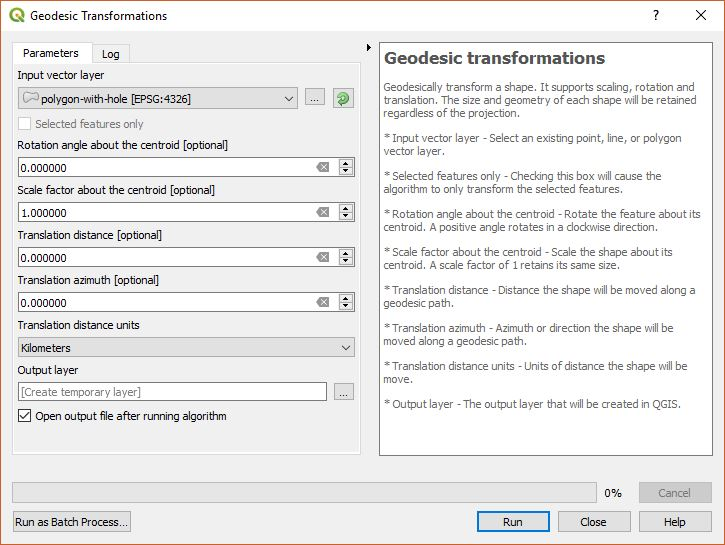
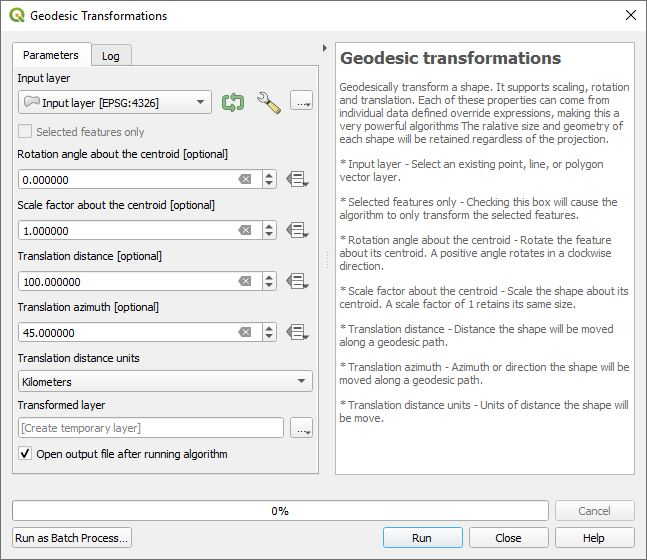
added data defined overrides to geodesic transformation tool.

Changed region(s): [[0.0, 0.0, 1.0, 1.0]]

diff --git a/index.html b/index.html
@@ -223,11 +223,11 @@ code {
 <div style="text-align:center"><img src="doc/measurement-attributes.jpg" alt="Measurement Attributes"></div>
 
 <h2><a name="geodesic-transformations"></a> <img alt="Geodesic Transformations" src="images/transformShape.svg" /> Geodesic Transformations Tool</h2>
-<p>This tool provides the ability to geodesically transform a shape. It supports scaling, rotation and translation. The size and geometry of each shape will be retained regardless of the projection. </p>
+<p>This tool provides the ability to geodesically transform a shape. It supports scaling, rotation and translation. Each of these can use data defined override expressions. The relative size and geometry of each shape will be retained regardless of the projection. </p>
 <div style="text-align:center"><img src="doc/geodesictransform.jpg" alt="Geodesic Transformations"></div>
 
 <ul>
-<li><strong>Input vector layer</strong> - Select an existing point, line, or polygon vector layer.</li>
+<li><strong>Input layer</strong> - Select an existing point, line, or polygon vector layer.</li>
 <li><strong>Selected features only</strong> - Checking this box will cause the algorithm to only transform the selected features.</li>
 <li><strong>Rotation angle about the centroid</strong> - Rotate the feature about its centroid. A positive angle rotates in a clockwise direction.</li>
 <li><strong>Scale factor about the centroid</strong> - Scale the shape about its centroid. A scale factor of 1 retains its same size.</li>
@@ -236,6 +236,10 @@ code {
 <li><strong>Translation distance units</strong> - Units of distance the shape will be move.</li>
 <li><strong>Output layer</strong> - The output layer that will be created in QGIS.</li>
 </ul>
+<p>To the right of each parameter is the data defined override button <img alt="" src="doc/datadefined.jpg" /> where the default value is overridden with a value from one of the attributes or an expression. This leads to some powerful and creative applications.</p>
+<div style="text-align:center"><img src="doc/geodesictransformexample.jpg" alt="Geodesic Transformation Example"></div>
+
+<p>This was created by clicking on the <strong><em>Rotation angle about the centroid</em></strong> data defined override button, clicking on <strong>Edit</strong> and using the expression <code><span style="font-family:'Courier New'"><b>randf( -10, 10)</b></span></code> and for <strong><em>Scale factor about the centroid</em></strong> using the expression <code><span style="font-family:'Courier New'"><b>randf(0.65, 0.85)</b></style></code>. For each polygin in the input layer it rotates them using a random value between -10 and 10 degrees and scales them by a factor betweeen 0.65 and 0.85.</p>
 <h2><a name="geodesic-flip"></a> <img alt="Geodesic Flip and Rotate Tools" src="images/flip.svg" /> Geodesic Flip and Rotate Tools</h2>
 <p>This is a collection of geodesic tools that transform vector features including the ability to flip horizontally, flip vertically, rotate by 180 degrees, rotate clockwise by 90 degrees, and rotate counter clockwise by 90 degrees. The first is a processing toolbox algorithm that allows the selection of one of these five transforms.</p>
 <div style="text-align:center"><img src="doc/fliptool.jpg" alt="Geodesic Flip and Rotate"></div>

diff --git a/geodesicTransformation.py b/geodesicTransformation.py
@@ -1,11 +1,12 @@
 import os
 from geographiclib.geodesic import Geodesic
 
-from qgis.core import (QgsPoint, QgsProject, QgsCoordinateTransform)
+from qgis.core import (QgsPoint, QgsProject, QgsCoordinateTransform, QgsPropertyDefinition)
 
 from qgis.core import (
     QgsProcessing,
-    QgsProcessingAlgorithm,
+    QgsProcessingFeatureBasedAlgorithm,
+    QgsProcessingParameters,
     QgsProcessingParameterNumber,
     QgsProcessingParameterEnum,
     QgsProcessingParameterFeatureSource,
@@ -17,134 +18,19 @@ from qgis.PyQt.QtCore import QUrl
 from .settings import epsg4326, geod
 from .utils import tr, conversionToMeters, DISTANCE_LABELS
 
-class GeodesicTransformationsAlgorithm(QgsProcessingAlgorithm):
+class GeodesicTransformationsAlgorithm(QgsProcessingFeatureBasedAlgorithm):
     """
     Algorithm to transform geometry shapes.
     """
 
-    PrmInputLayer = 'InputLayer'
-    PrmOutputLayer = 'OutputLayer'
     PrmTransformRotation = 'TransformRotation'
     PrmTransformScale = 'TransformScale'
     PrmTransformAzimuth = 'TransformAzimuth'
     PrmTransformDistance = 'TransformDistance'
     PrmTransformUnits = 'TransformUnits'
 
-    def initAlgorithm(self, config):
-        self.addParameter(
-            QgsProcessingParameterFeatureSource(
-                self.PrmInputLayer,
-                tr('Input vector layer'),
-                [QgsProcessing.TypeVectorAnyGeometry])
-        )
-        self.addParameter(
-            QgsProcessingParameterNumber(
-                self.PrmTransformRotation,
-                tr('Rotation angle about the centroid'),
-                QgsProcessingParameterNumber.Double,
-                defaultValue=0,
-                optional=True)
-        )
-        self.addParameter(
-            QgsProcessingParameterNumber(
-                self.PrmTransformScale,
-                tr('Scale factor about the centroid'),
-                QgsProcessingParameterNumber.Double,
-                defaultValue=1,
-                optional=True)
-        )
-        self.addParameter(
-            QgsProcessingParameterNumber(
-                self.PrmTransformDistance,
-                tr('Translation distance'),
-                QgsProcessingParameterNumber.Double,
-                defaultValue=0,
-                optional=True)
-        )
-        self.addParameter(
-            QgsProcessingParameterNumber(
-                self.PrmTransformAzimuth,
-                tr('Translation azimuth'),
-                QgsProcessingParameterNumber.Double,
-                defaultValue=0,
-                optional=True)
-        )
-        self.addParameter(
-            QgsProcessingParameterEnum(
-                self.PrmTransformUnits,
-                tr('Translation distance units'),
-                options=DISTANCE_LABELS,
-                defaultValue=0,
-                optional=False)
-        )
-        self.addParameter(
-            QgsProcessingParameterFeatureSink(
-                self.PrmOutputLayer,
-                tr('Output layer'))
-        )
-
-    def processAlgorithm(self, parameters, context, feedback):
-        source = self.parameterAsSource(parameters, self.PrmInputLayer, context)
-        angle = self.parameterAsDouble(parameters, self.PrmTransformRotation, context)
-        scale = self.parameterAsDouble(parameters, self.PrmTransformScale, context)
-        azimuth = self.parameterAsDouble(parameters, self.PrmTransformAzimuth, context)
-        distance = self.parameterAsDouble(parameters, self.PrmTransformDistance, context)
-        units = self.parameterAsInt(parameters, self.PrmTransformUnits, context)
-
-        to_meters = conversionToMeters(units)
-        distance = distance * to_meters
-        src_crs = source.sourceCrs()
-        wkbtype = source.wkbType()
-
-        (sink, dest_id) = self.parameterAsSink(
-            parameters, self.PrmOutputLayer, context, source.fields(), wkbtype, src_crs)
-
-        geom_to_4326 = QgsCoordinateTransform(src_crs, epsg4326, QgsProject.instance())
-        to_sink_crs = QgsCoordinateTransform(epsg4326, src_crs, QgsProject.instance())
-
-        featureCount = source.featureCount()
-        total = 100.0 / featureCount if featureCount else 0
-
-        iterator = source.getFeatures()
-        for cnt, feature in enumerate(iterator):
-            if feedback.isCanceled():
-                break
-            geom = feature.geometry()
-            # Find the centroid of the vector shape. We will resize everything based on this
-            centroid = geom.centroid().asPoint()
-            centroid = geom_to_4326.transform(centroid.x(), centroid.y())
-            cy = centroid.y()
-            cx = centroid.x()
-            if distance != 0:
-                g = geod.Direct(cy, cx, azimuth, distance, Geodesic.LATITUDE | Geodesic.LONGITUDE)
-                new_centroid = QgsPoint(g['lon2'], g['lat2'])
-            else:
-                new_centroid = centroid
-
-            # Find the x & y coordinates of the new centroid
-            ncy = new_centroid.y()
-            ncx = new_centroid.x()
-
-            vertices = geom.vertices()
-            for vcnt, vertex in enumerate(vertices):
-                v = geom_to_4326.transform(vertex.x(), vertex.y())
-                gline = geod.Inverse(cy, cx, v.y(), v.x())
-                vdist = gline['s12']
-                vazi = gline['azi1']
-                if scale != 1:
-                    vdist = vdist * scale
-                if angle != 0:
-                    vazi += angle
-                g = geod.Direct(ncy, ncx, vazi, vdist, Geodesic.LATITUDE | Geodesic.LONGITUDE)
-                new_vertex = to_sink_crs.transform(g['lon2'], g['lat2'])
-                geom.moveVertex(new_vertex.x(), new_vertex.y(), vcnt)
-            feature.setGeometry(geom)
-            sink.addFeature(feature)
-
-            if cnt % 100 == 0:
-                feedback.setProgress(int(cnt * total))
-
-        return {self.PrmOutputLayer: dest_id}
+    def createInstance(self):
+        return GeodesicTransformationsAlgorithm()
 
     def name(self):
         return 'geodesictransformations'
@@ -161,6 +47,9 @@ class GeodesicTransformationsAlgorithm(QgsProcessingAlgorithm):
     def groupId(self):
         return 'vectorgeometry'
 
+    def outputName(self):
+        return tr('Transformed layer')
+
     def helpUrl(self):
         file = os.path.dirname(__file__) + '/index.html'
         if not os.path.exists(file):
@@ -175,5 +64,160 @@ class GeodesicTransformationsAlgorithm(QgsProcessingAlgorithm):
             help = helpf.read()
         return help
 
-    def createInstance(self):
-        return GeodesicTransformationsAlgorithm()
+    def inputLayerTypes(self):
+        return [QgsProcessing.TypeVectorAnyGeometry]
+        
+    def outputWkbType(self, input_wkb_type):
+        return input_wkb_type
+
+    def initParameters(self, config=None):
+        param = QgsProcessingParameterNumber(
+            self.PrmTransformRotation,
+            tr('Rotation angle about the centroid'),
+            QgsProcessingParameterNumber.Double,
+            defaultValue=0,
+            optional=True)
+        param.setIsDynamic(True)
+        param.setDynamicPropertyDefinition( QgsPropertyDefinition(
+            self.PrmTransformRotation,
+            tr('Rotation angle about the centroid'),
+            QgsPropertyDefinition.Double ))
+        param.setDynamicLayerParameterName('INPUT')
+        self.addParameter(param)
+        
+        param = QgsProcessingParameterNumber(
+            self.PrmTransformScale,
+            tr('Scale factor about the centroid'),
+            QgsProcessingParameterNumber.Double,
+            defaultValue=1,
+            optional=True)
+        param.setIsDynamic(True)
+        param.setDynamicPropertyDefinition( QgsPropertyDefinition(
+            self.PrmTransformScale,
+            tr('Scale factor about the centroid'),
+            QgsPropertyDefinition.Double ))
+        param.setDynamicLayerParameterName('INPUT')
+        self.addParameter(param)
+
+        param = QgsProcessingParameterNumber(
+            self.PrmTransformDistance,
+            tr('Translation distance'),
+            QgsProcessingParameterNumber.Double,
+            defaultValue=0,
+            optional=True)
+        param.setIsDynamic(True)
+        param.setDynamicPropertyDefinition( QgsPropertyDefinition(
+            self.PrmTransformDistance,
+            tr('Translation distance'),
+            QgsPropertyDefinition.Double ))
+        param.setDynamicLayerParameterName('INPUT')
+        self.addParameter(param)
+
+        param = QgsProcessingParameterNumber(
+            self.PrmTransformAzimuth,
+            tr('Translation azimuth'),
+            QgsProcessingParameterNumber.Double,
+            defaultValue=0,
+            optional=True)
+        param.setIsDynamic(True)
+        param.setDynamicPropertyDefinition( QgsPropertyDefinition(
+            self.PrmTransformAzimuth,
+            tr('Translation azimuth'),
+            QgsPropertyDefinition.Double ))
+        param.setDynamicLayerParameterName('INPUT')
+        self.addParameter(param)
+
+        self.addParameter(
+            QgsProcessingParameterEnum(
+                self.PrmTransformUnits,
+                tr('Translation distance units'),
+                options=DISTANCE_LABELS,
+                defaultValue=0,
+                optional=False)
+        )
+
+    def prepareAlgorithm(self, parameters, context, feedback):
+        self.angle = self.parameterAsDouble(parameters, self.PrmTransformRotation, context)
+        self.angle_dyn = QgsProcessingParameters.isDynamic(parameters, self.PrmTransformRotation)
+        if self.angle_dyn:
+            self.angle_property = parameters[ self.PrmTransformRotation ]
+
+        self.scale = self.parameterAsDouble(parameters, self.PrmTransformScale, context)
+        self.scale_dyn = QgsProcessingParameters.isDynamic(parameters, self.PrmTransformScale)
+        if self.scale_dyn:
+            self.scale_property = parameters[ self.PrmTransformScale ]
+
+        distance = self.parameterAsDouble(parameters, self.PrmTransformDistance, context)
+        self.distance_dyn = QgsProcessingParameters.isDynamic(parameters, self.PrmTransformDistance)
+        if self.distance_dyn:
+            self.distance_property = parameters[ self.PrmTransformDistance ]
+
+        self.azimuth = self.parameterAsDouble(parameters, self.PrmTransformAzimuth, context)
+        self.azimuth_dyn = QgsProcessingParameters.isDynamic(parameters, self.PrmTransformAzimuth)
+        if self.azimuth_dyn:
+            self.azimuth_property = parameters[ self.PrmTransformAzimuth ]
+
+        units = self.parameterAsInt(parameters, self.PrmTransformUnits, context)
+
+        self.to_meters = conversionToMeters(units)
+        self.distance = distance * self.to_meters
+
+        source = self.parameterAsSource(parameters, 'INPUT', context)
+        src_crs = source.sourceCrs()
+        self.geom_to_4326 = QgsCoordinateTransform(src_crs, epsg4326, QgsProject.instance())
+        self.to_sink_crs = QgsCoordinateTransform(epsg4326, src_crs, QgsProject.instance())
+        return True
+
+    def processFeature(self, feature, context, feedback):
+        # Check each parameter to see if it is useing data defined expressions
+        if self.angle_dyn:
+            angle,_ = self.angle_property.valueAsDouble(context.expressionContext(), self.angle)
+        else:
+            angle = self.angle
+
+        if self.scale_dyn:
+            scale,_ = self.scale_property.valueAsDouble(context.expressionContext(), self.scale)
+        else:
+            scale = self.scale
+
+        if self.azimuth_dyn:
+            azimuth,_ = self.azimuth_property.valueAsDouble(context.expressionContext(), self.azimuth)
+        else:
+            azimuth = self.azimuth
+
+        if self.distance_dyn:
+            distance,_ = self.distance_property.valueAsDouble(context.expressionContext(), self.distance)
+            distance = distance * self.to_meters
+        else:
+            distance = self.distance
+        geom = feature.geometry()
+        # Find the centroid of the vector shape. We will resize everything based on this
+        centroid = geom.centroid().asPoint()
+        centroid = self.geom_to_4326.transform(centroid.x(), centroid.y())
+        cy = centroid.y()
+        cx = centroid.x()
+        if distance != 0:
+            g = geod.Direct(cy, cx, azimuth, distance, Geodesic.LATITUDE | Geodesic.LONGITUDE)
+            new_centroid = QgsPoint(g['lon2'], g['lat2'])
+        else:
+            new_centroid = centroid
+
+        # Find the x & y coordinates of the new centroid
+        ncy = new_centroid.y()
+        ncx = new_centroid.x()
+
+        vertices = geom.vertices()
+        for vcnt, vertex in enumerate(vertices):
+            v = self.geom_to_4326.transform(vertex.x(), vertex.y())
+            gline = geod.Inverse(cy, cx, v.y(), v.x())
+            vdist = gline['s12']
+            vazi = gline['azi1']
+            if scale != 1:
+                vdist = vdist * scale
+            if angle != 0:
+                vazi += angle
+            g = geod.Direct(ncy, ncx, vazi, vdist, Geodesic.LATITUDE | Geodesic.LONGITUDE)
+            new_vertex = self.to_sink_crs.transform(g['lon2'], g['lat2'])
+            geom.moveVertex(new_vertex.x(), new_vertex.y(), vcnt)
+        feature.setGeometry(geom)
+        return [feature]

diff --git a/readme.md b/readme.md
@@ -247,11 +247,11 @@ Here is what the attributes table looks like.
 
 ## <a name="geodesic-transformations"></a> ![Geodesic Transformations](images/transformShape.svg) Geodesic Transformations Tool
 
-This tool provides the ability to geodesically transform a shape. It supports scaling, rotation and translation. The size and geometry of each shape will be retained regardless of the projection. 
+This tool provides the ability to geodesically transform a shape. It supports scaling, rotation and translation. Each of these can use data defined override expressions. The relative size and geometry of each shape will be retained regardless of the projection. 
 
 <div style="text-align:center"><img src="doc/geodesictransform.jpg" alt="Geodesic Transformations"></div>
 
-* **Input vector layer** - Select an existing point, line, or polygon vector layer.
+* **Input layer** - Select an existing point, line, or polygon vector layer.
 * **Selected features only** - Checking this box will cause the algorithm to only transform the selected features.
 * **Rotation angle about the centroid** - Rotate the feature about its centroid. A positive angle rotates in a clockwise direction.
 * **Scale factor about the centroid** - Scale the shape about its centroid. A scale factor of 1 retains its same size.
@@ -259,6 +259,12 @@ This tool provides the ability to geodesically transform a shape. It supports sc
 * **Translation azimuth** - Azimuth or direction the shape will be moved along a geodesic path.
 * **Translation distance units** - Units of distance the shape will be move.
 * **Output layer** - The output layer that will be created in QGIS.
+
+To the right of each parameter is the data defined override button ![](doc/datadefined.jpg) where the default value is overridden with a value from one of the attributes or an expression. This leads to some powerful and creative applications.
+
+<div style="text-align:center"><img src="doc/geodesictransformexample.jpg" alt="Geodesic Transformation Example"></div>
+
+This was created by clicking on the ***Rotation angle about the centroid*** data defined override button, clicking on **Edit** and using the expression <code><span style="font-family:'Courier New'"><b>randf( -10, 10)</b></span></code> and for ***Scale factor about the centroid*** using the expression <code><span style="font-family:'Courier New'"><b>randf(0.65, 0.85)</b></style></code>. For each polygin in the input layer it rotates them using a random value between -10 and 10 degrees and scales them by a factor betweeen 0.65 and 0.85.
 
 ## <a name="geodesic-flip"></a> ![Geodesic Flip and Rotate Tools](images/flip.svg) Geodesic Flip and Rotate Tools
 This is a collection of geodesic tools that transform vector features including the ability to flip horizontally, flip vertically, rotate by 180 degrees, rotate clockwise by 90 degrees, and rotate counter clockwise by 90 degrees. The first is a processing toolbox algorithm that allows the selection of one of these five transforms.
